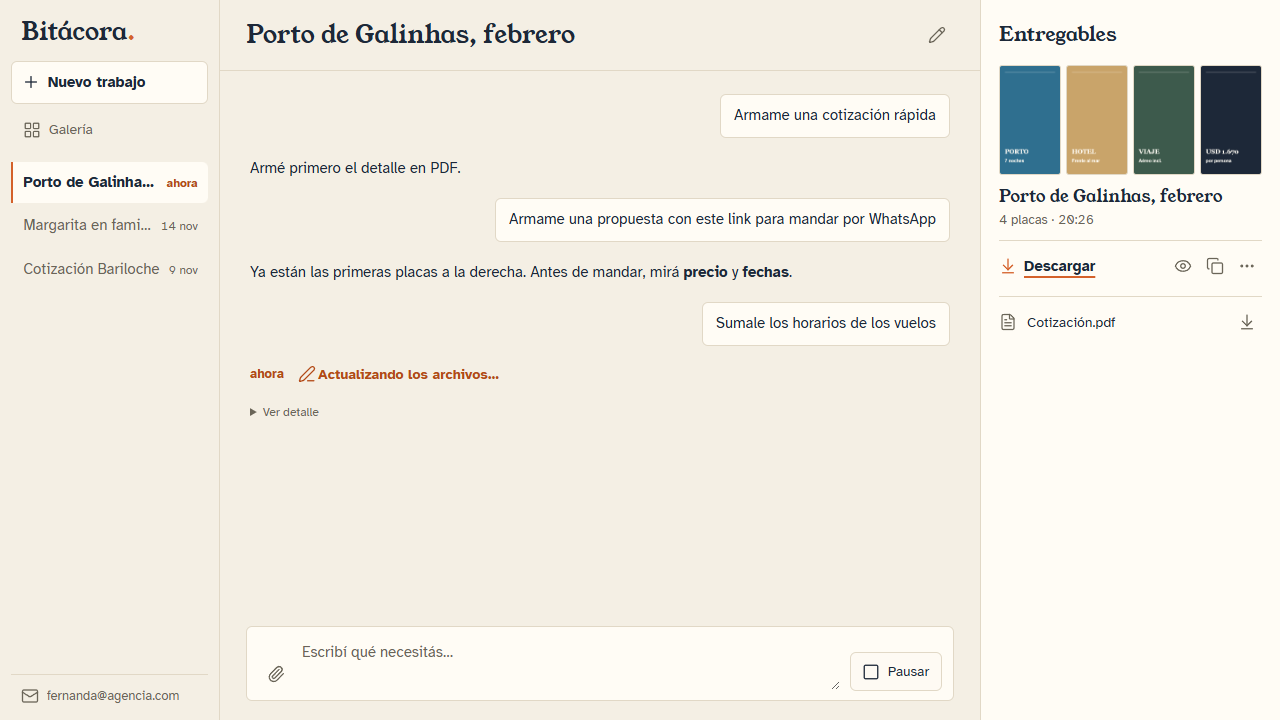
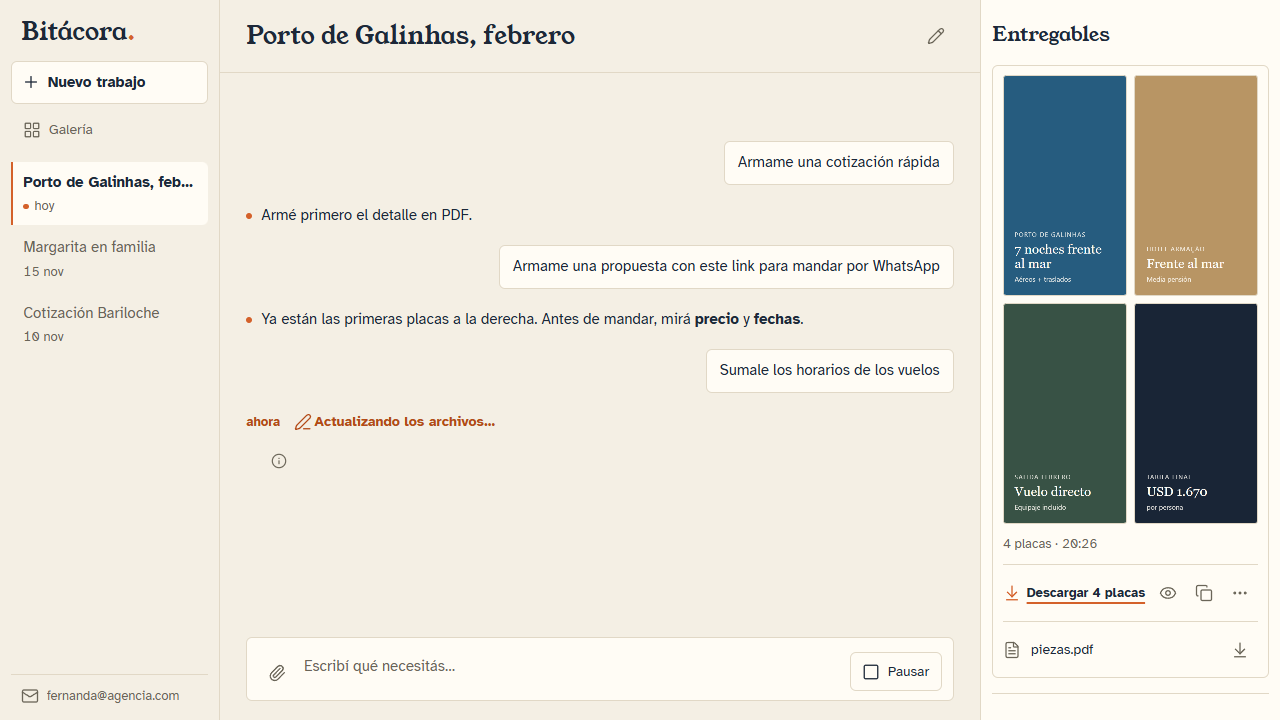
Update design.md and refresh verification screenshots

diff --git a/design.md b/design.md
@@ -9,8 +9,8 @@ Este archivo manda sobre cualquier decisión visual de la interfaz (`web/`). Si 
 Bitácora es el cuaderno de a bordo de la agencia: un registro de lo que se hizo, con fecha y hora. La personalidad sale de esa idea, no de adornos:
 
 - **Papel y tinta.** Fondo cálido como papel, texto azul marino como tinta.
-- **Naranja de boya.** Un solo color de acento, que marca lo que está pasando ahora y la acción principal. Nada más.
-- **Registro con hora.** El progreso del agente se cuenta como entradas del cuaderno (`14:02 ✓ Leí la página del hotel`), no como píldoras ni barras.
+- **Naranja de boya.** Un solo color de acento: el punto de «Bitácora.» (`6 px`, `--accent`) como marcador único de estado, el paso en curso y la acción principal. Nada más.
+- **Registro con hora.** El progreso del agente se cuenta como entradas del cuaderno, cerradas al terminar con una línea de asiento (`18:16` a la izquierda, «Listo.» a la derecha), no como píldoras ni barras.
 
 ## Principios (Valentín, #25)
 
@@ -29,25 +29,25 @@ Bitácora es el cuaderno de a bordo de la agencia: un registro de lo que se hizo
 | `--muted` | `#6a6558` | Texto secundario, horas, fechas, íconos en reposo |
 | `--line` | `#e1d8c6` | Bordes y divisores de 1 px |
 | `--soft` | `#ece4d3` | Fondo al pasar el mouse |
-| `--accent` | `#d4612a` | Íconos de acento, subrayados, filete del trabajo activo (no para texto chico) |
+| `--accent` | `#d4612a` | Punto marcador de `6 px`, íconos de acento, subrayados, filete del trabajo activo (no para texto chico) |
 | `--accent-ink` | `#b34a17` | Texto en naranja («ahora», avisos): 5,2:1 sobre `--surface` |
-| `--ok` | `#2f7d5b` | Tilde de un paso terminado |
+| `--ok` | `#2f7d5b` | Token reservado para confirmaciones |
 | `--danger` | `#a63d2a` | Errores y borrar |
 
-- **Contraste:** `--accent` da 3,7:1 sobre `--surface`, así que sirve solo para íconos, subrayados y textos grandes. El texto chico en naranja usa `--accent-ink`.
+- **Contraste:** `--accent` da 3,7:1 sobre `--surface`, así que sirve solo para el punto de `6 px`, íconos, subrayados y textos grandes. El texto chico en naranja usa `--accent-ink`.
 - **Modo oscuro:** no hay en el MVP.
 
 ## Tipografía
 
 | Rol | Familia | Pesos | Uso |
 | --- | --- | --- | --- |
-| Títulos | **Young Serif** | 400 | Marca, título del trabajo, título del panel, nombre del entregable |
+| Títulos | **Young Serif** | 400 | Marca, título del trabajo, título del panel, ancla de estados vacíos |
 | Texto | **Atkinson Hyperlegible** | 400, 700 | Todo lo demás |
 
 - **Cero con raya:** Atkinson Hyperlegible dibuja así el cero (`0`), para que no se confunda con la O. Se acepta.
 - **Números:** las horas y fechas usan `font-variant-numeric: tabular-nums`.
 - **Sin itálica en títulos:** el énfasis va en negrita o en color.
-- **Escala:** 13 / 15 (base) / 17 / 20 / 25 px.
+- **Escala:** 13 (mínimo de interfaz) / 15 (base) / 17 / 20 / 25 px.
 - **Empaquetado:** las letras van dentro de la app (`@fontsource/young-serif`, `@fontsource/atkinson-hyperlegible`), no desde Google Fonts.
 
 ## Forma y espacio
@@ -59,30 +59,36 @@ Bitácora es el cuaderno de a bordo de la agencia: un registro de lo que se hizo
 
 ## Íconos
 
-- **Familia:** Lucide (`lucide-react`), trazo 1,75, 18 px. Una sola familia.
-- **Acción principal:** ícono más texto («Descargar», «Nuevo trabajo», «Conectar cuenta»).
-- **Acciones repetidas o secundarias:** ícono solo, con `title` y `aria-label` (ver, abrir carpeta, cambiar el nombre, «⋯»).
+- **Familia:** Lucide (`lucide-react`), trazo 1,75, 18 px (16 px en `info` de detalle y flechas de fila). Una sola familia.
+- **Área táctil:** botones de ícono de al menos 36 px en escritorio y 40 px por debajo de 960 px.
+- **Acción principal:** ícono más texto («Descargar 4 placas», «Nuevo trabajo», «Conectar cuenta»).
+- **Acciones repetidas o secundarias:** ícono solo, con `title` y `aria-label` (ver, copiar, detalle, «⋯»).
 
 ## Patrones
 
-- **Progreso del agente:** una lista de entradas con hora, ícono y una frase corta.
-  - Paso terminado: `check` en `--ok`.
-  - Paso en curso: «ahora» con `pen-line`, en `--accent-ink`.
-  - Sin porcentajes ni pasos técnicos.
-- **Trabajos:** en la barra izquierda, nombre y fecha corta («hoy», «14 nov»). El activo va en `--surface`, con un filete naranja a la izquierda.
+- **El punto del logo:** el círculo naranja de `6 px` (`--accent`) de «Bitácora.» es el marcador único de estado: aparece delante de cada respuesta de Bitácora y en la barra izquierda junto al trabajo en curso (sin texto naranja suelto como «ahora»).
+- **Progreso del agente:**
+  - **Cierre como asiento:** cuando termina una respuesta, el asiento final se dibuja como una línea horizontal completa de `1 px` en `--line`, con la hora a la izquierda (`tabular-nums`) y «Listo.» a la derecha.
+  - **Paso en curso:** «ahora» con `pen-line`, en `--accent-ink`.
+  - **Detalle:** cada respuesta puede abrir su detalle técnico con el botón de ícono `info` (`16 px`).
+  - Sin porcentajes ni pasos técnicos visibles por defecto.
+- **Trabajos:** en la barra izquierda, el nombre ocupa la línea completa y debajo va la fecha corta en `--muted` (junto al punto naranja si está en curso). El activo va en `--surface`, con un filete naranja a la izquierda.
 - **Entregable:**
-  - La miniatura grande es la protagonista; una propuesta es una tarjeta con sus placas.
-  - Debajo: nombre en Young Serif y «4 placas · 14:05».
-  - **Descargar:** texto con ícono `arrow-down-to-line`, subrayado en `--accent`. No es un botón relleno.
-  - Lo demás va en íconos a la derecha: ver, carpeta y «⋯».
+  - Grilla de placas con `gap` de 8 px: 2 columnas hasta 4 placas, 3 columnas con 5 o más.
+  - Debajo, la línea de meta («4 placas · 14:05»); no se repite el nombre del trabajo si coincide con el encabezado.
+  - **Descargar:** texto con ícono `arrow-down-to-line`, subrayado en `--accent`, indicando la cantidad cuando el lote tiene varias placas o imágenes («Descargar 4 placas») y solo «Descargar» para un único archivo. No es un botón relleno.
+  - Si el lote trae un PDF junto a las placas, va dentro de la misma tarjeta debajo de una línea fina en `--line`, como fila con el ícono `file-text` y su nombre.
+  - Lo demás va en íconos a la derecha: ver, copiar y «⋯».
   - Entregables anteriores: una fila con su ícono de bajar.
+- **Deshacer:** barra fija superior de una sola línea corta («Se cambiaron 4 placas» o «Hubo cambios en los archivos») con el pedido completo en `title` y el botón «Deshacer», sin desplazar la conversación al iniciar un nuevo pedido.
+- **Errores:** un solo aviso rojo sobre la caja de texto (ícono, una frase llana y «Reintentar»), sin duplicar líneas en el registro ni en el pie de la barra izquierda.
 - **Cuenta:**
   - Conectada: abajo a la izquierda, el mail con el ícono `mail`. Sin puntito de estado.
-  - Sin conectar: una frase («Para trabajar, conectá tu cuenta de ChatGPT») y un solo botón con borde, «Conectar cuenta».
-- **Estados vacíos:** un ícono, una frase y una acción. Nada de tarjetas de sugerencias.
+  - Sin conectar: título en Young Serif («Conectá tu cuenta») con ícono `log-in`, una frase, un solo botón con borde («Conectar cuenta») y la caja de texto deshabilitada con un placeholder que explica el motivo.
+- **Estados vacíos:** el título en Young Serif es el ancla, alineado al borde izquierdo de la caja de texto y sin cajita alrededor de un ícono. En el estado listo vacío, debajo de «¿En qué trabajamos hoy?» se muestran «Rumbos sugeridos»: exactamente 3 filas de texto plano separadas por líneas de `1 px` en `--line` con una flecha a la derecha (`arrow-right`) que cargan el texto en la caja y la enfocan sin enviar. Sigue prohibido usar tarjetas o cajas con borde para sugerencias.
 - **Botones:**
-  - Relleno en `--ink`: solo para enviar.
-  - Con borde de 1 px en `--ink`: acciones únicas, como «Conectar cuenta».
+  - Relleno en `--ink` (al 40 % de opacidad cuando está deshabilitado): solo para enviar.
+  - Con borde de 1 px en `--ink`: acciones únicas, como «Conectar cuenta» o «Reintentar».
   - Lo demás es texto con ícono, o ícono solo.
 
 ## Movimiento
